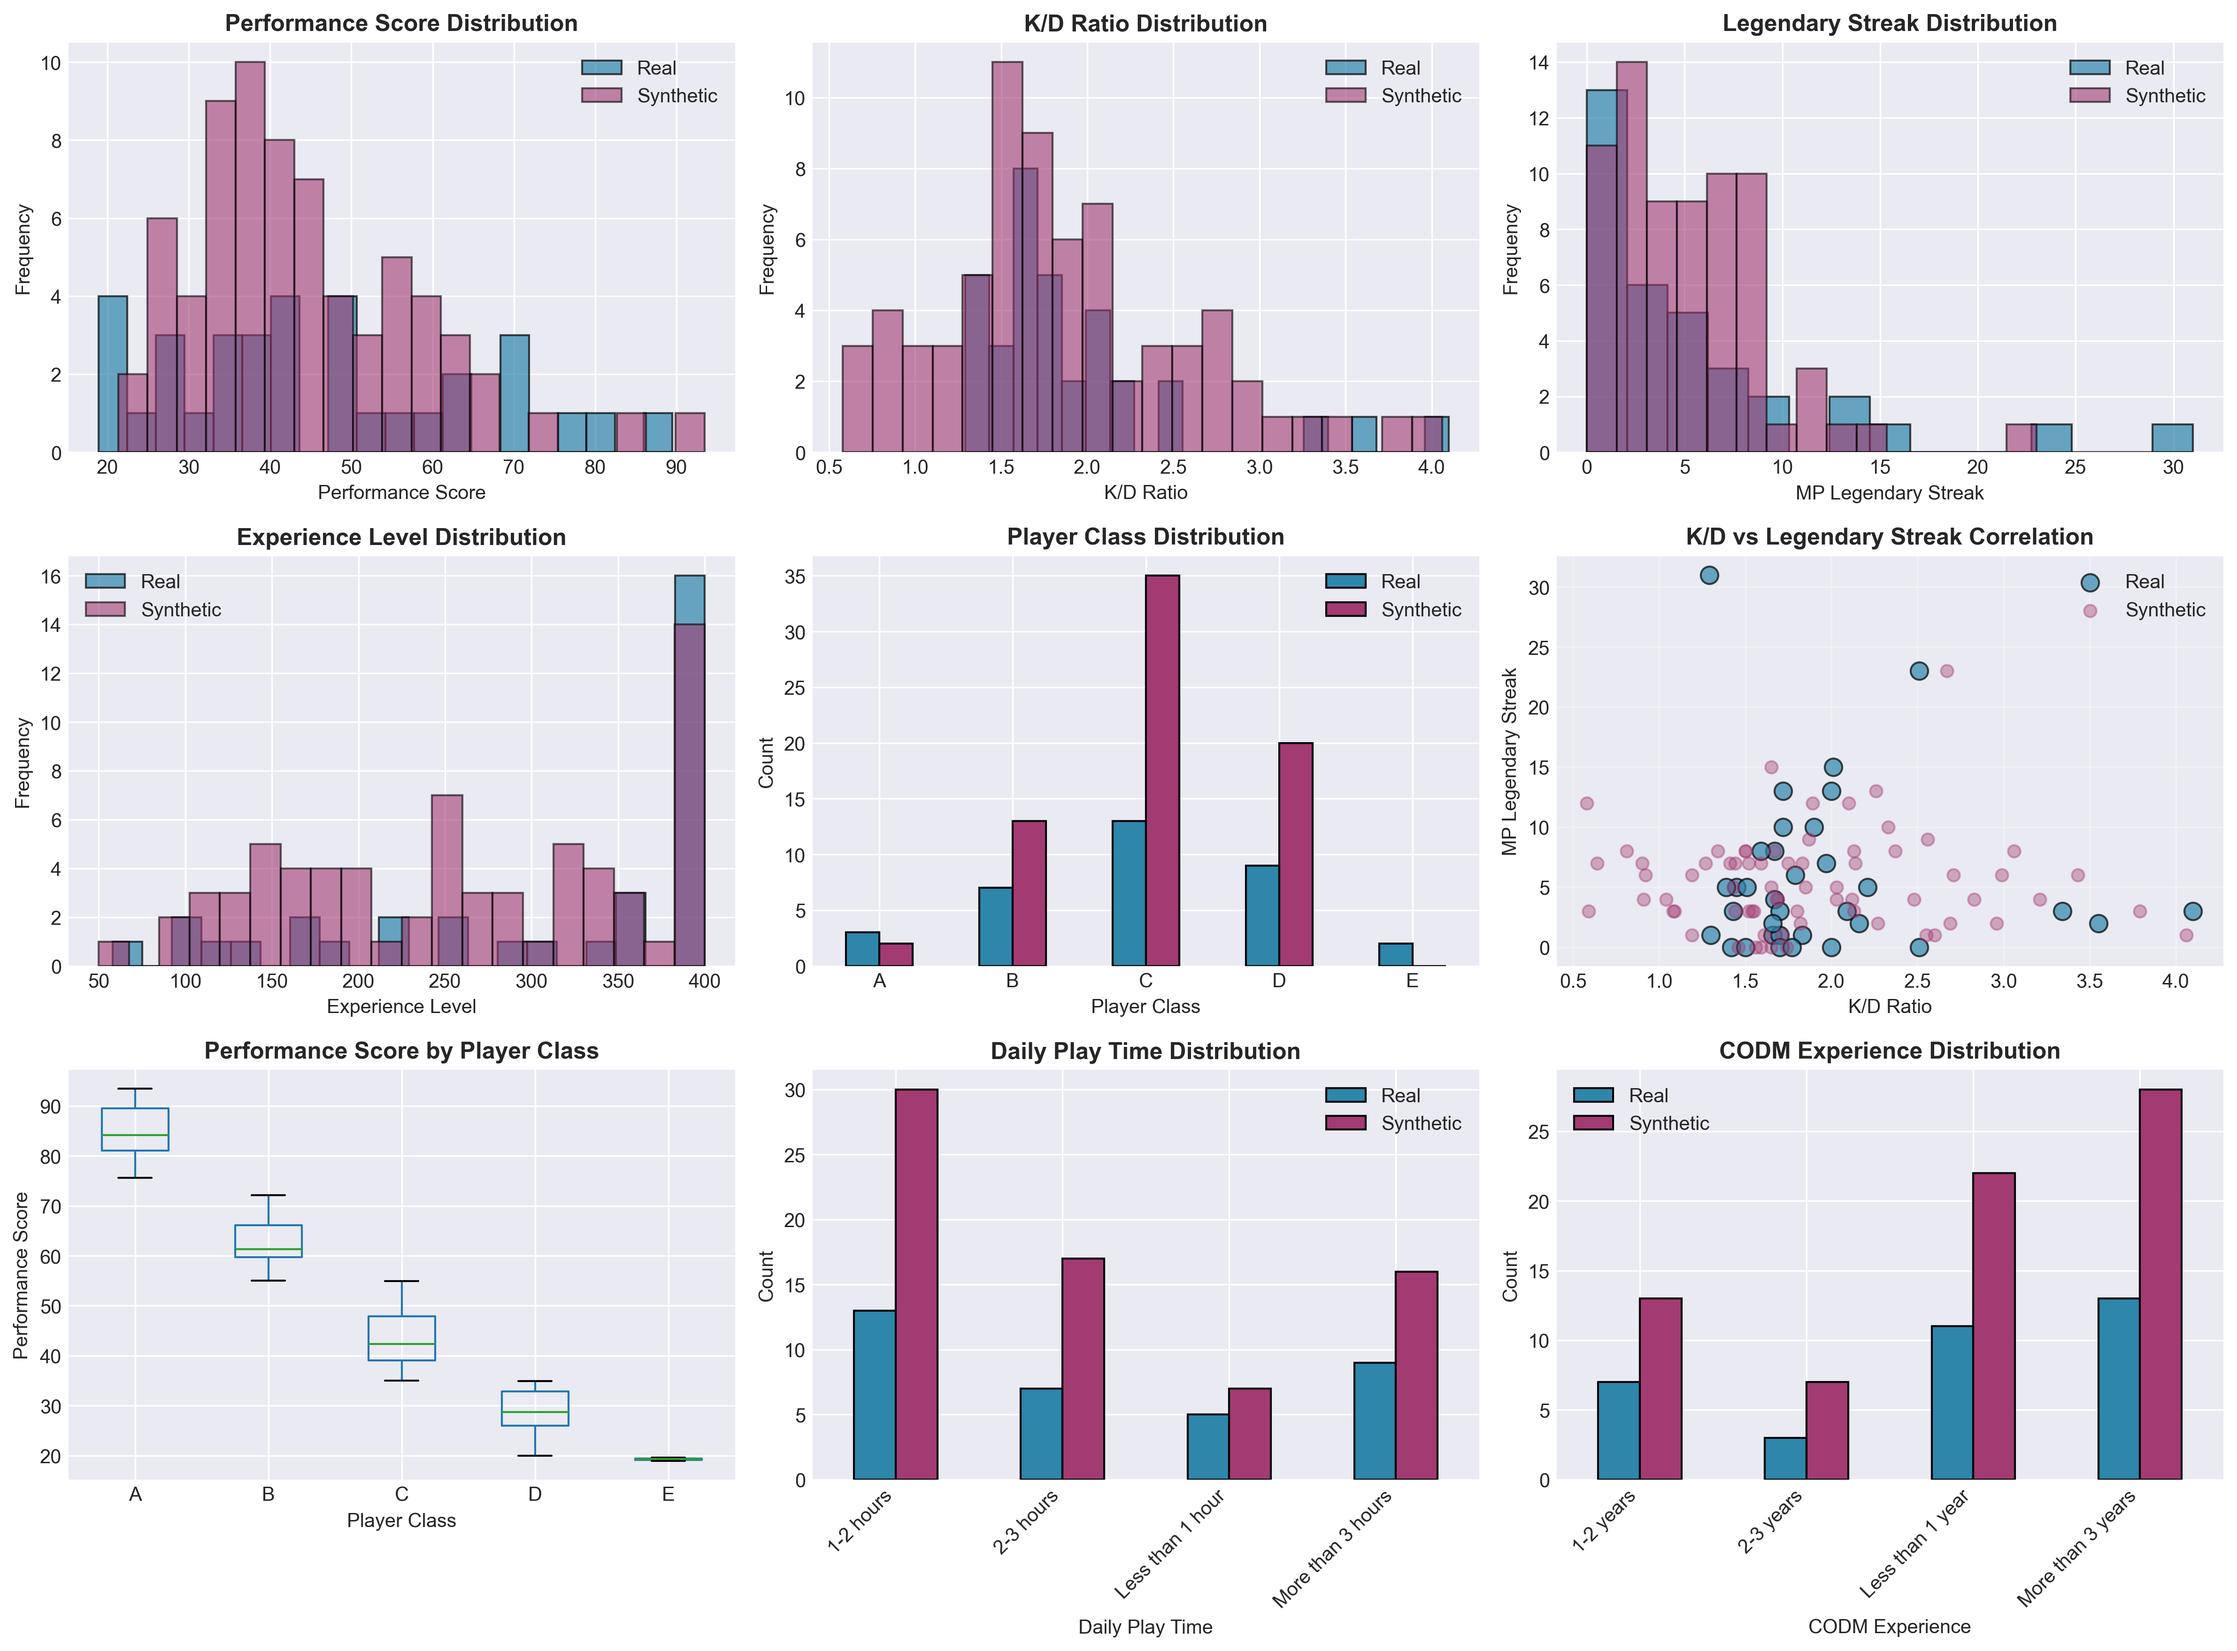
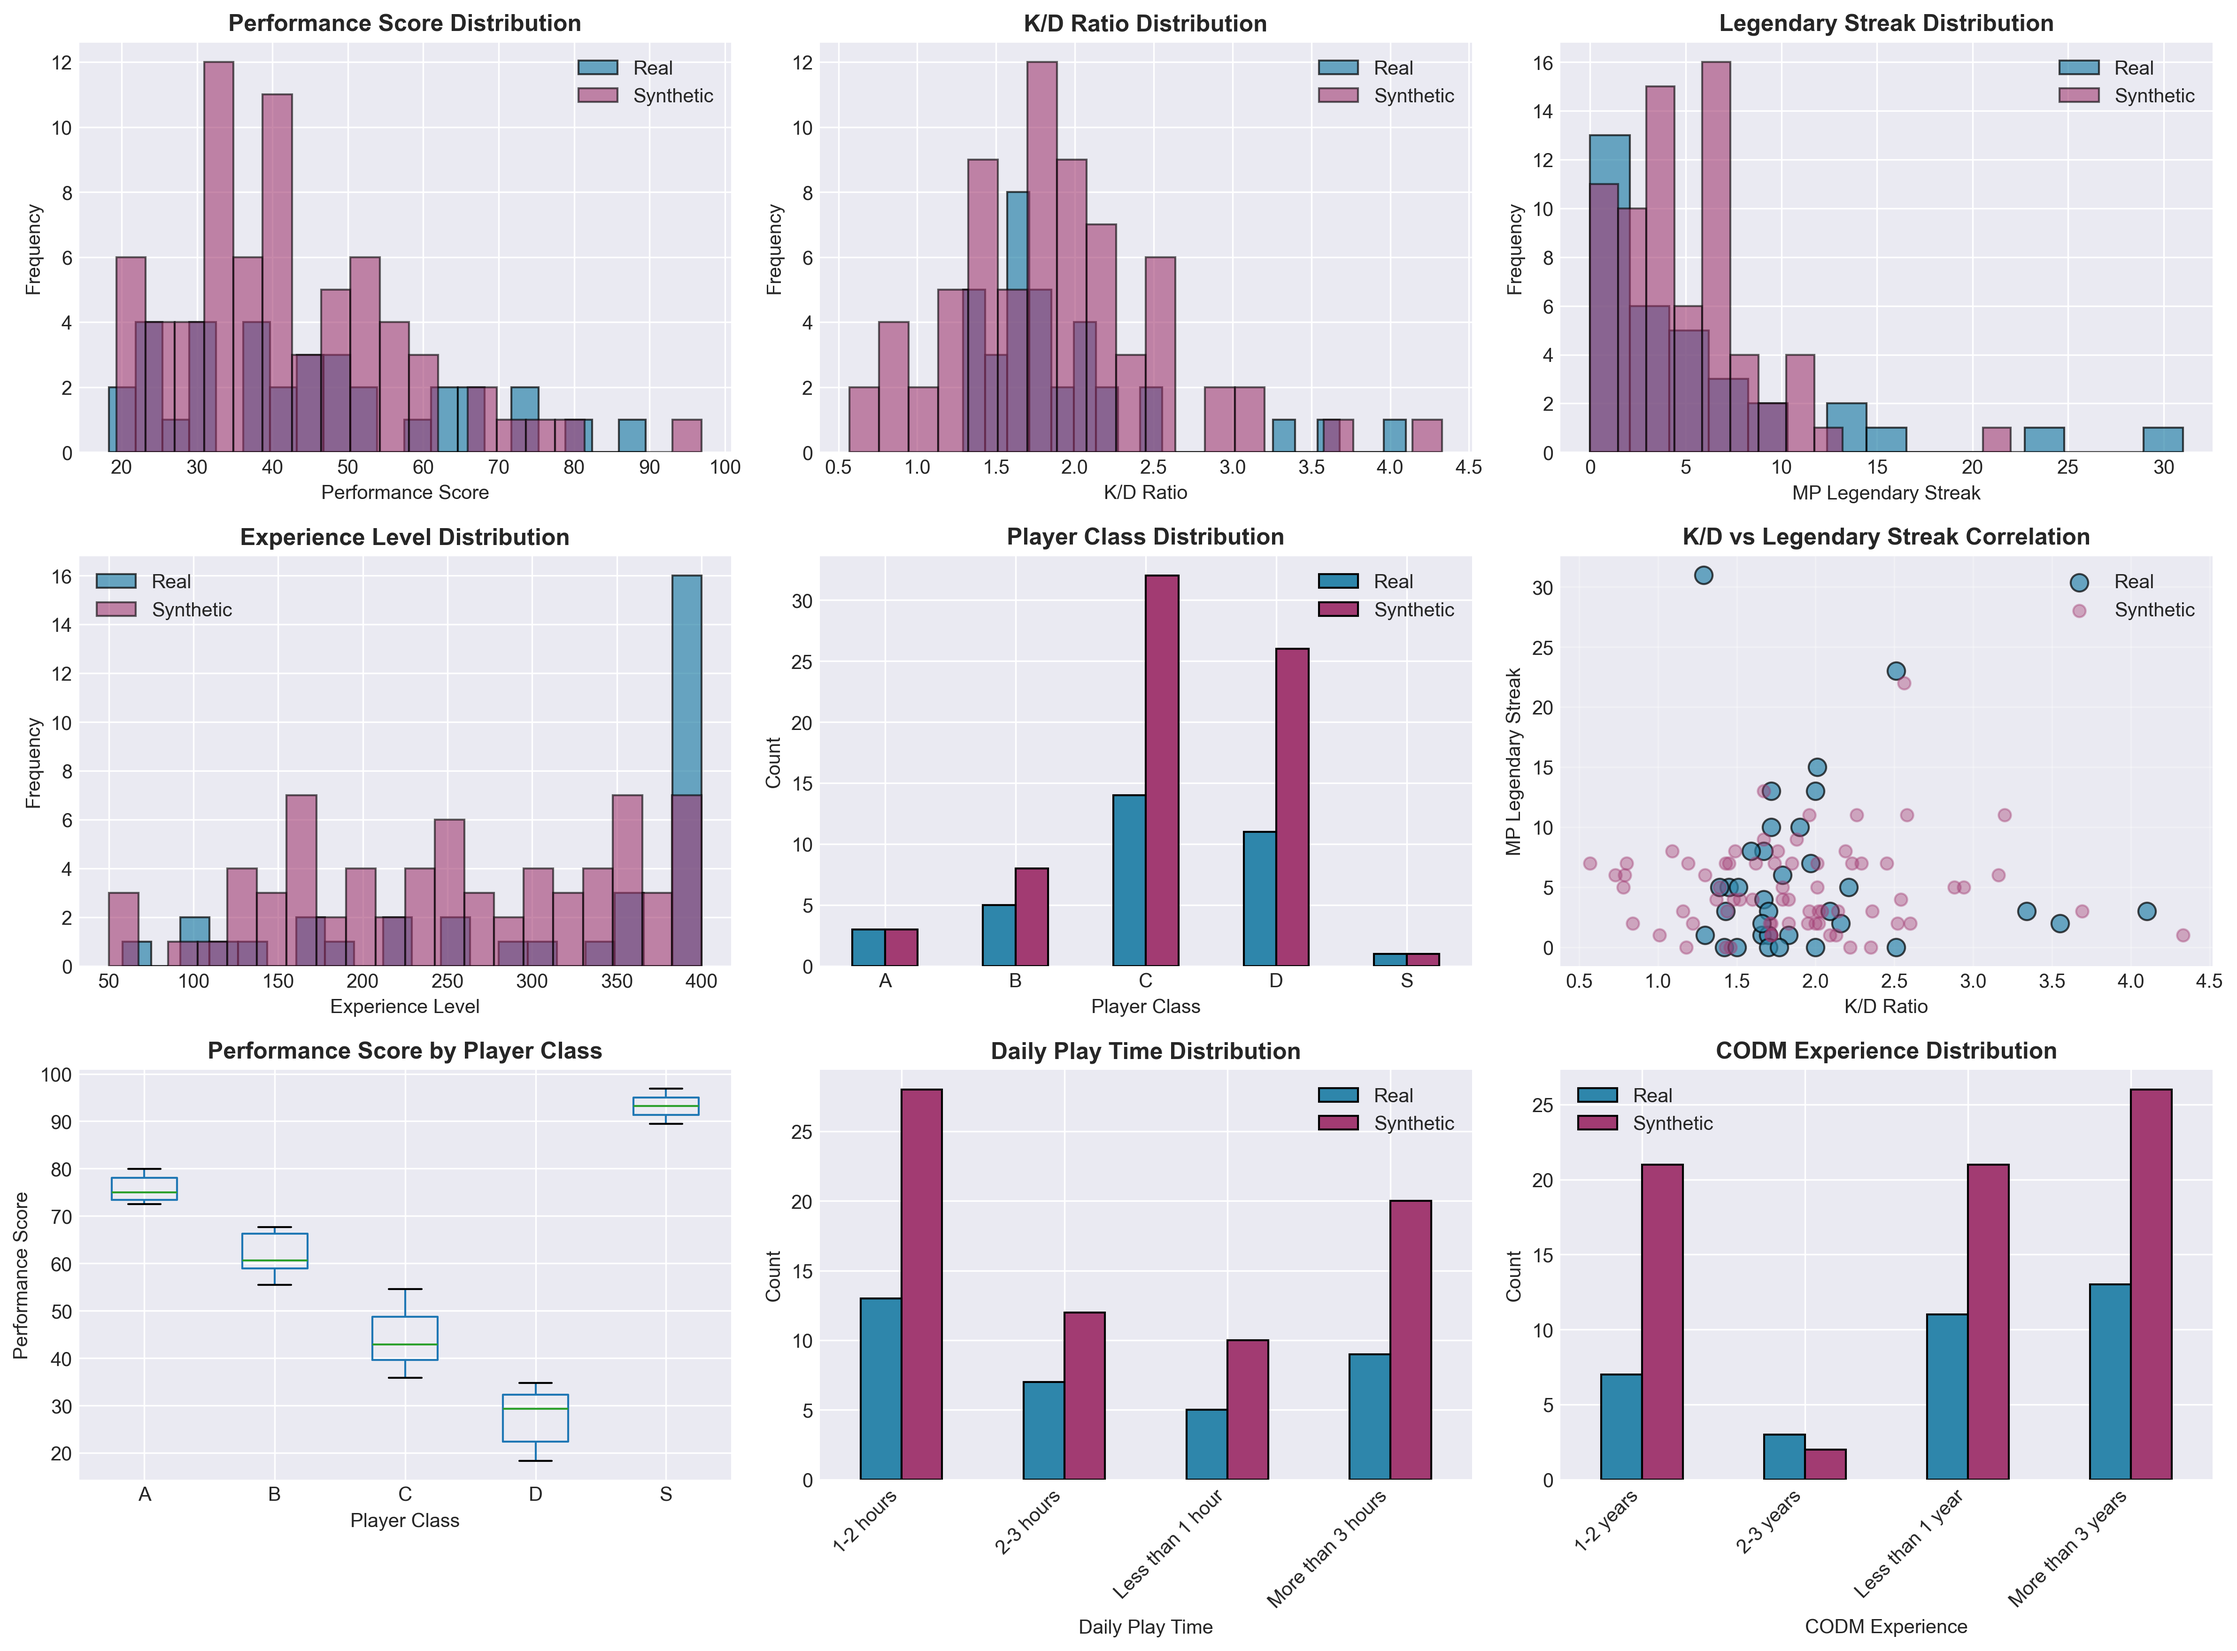
Adjusted class boundaries to match with database schema.

diff --git a/src/generate_data.py b/src/generate_data.py
@@ -264,19 +264,19 @@ combined_data['performance_score'] = combined_data.apply(calculate_performance_s
 # Step 7: Assign player classes
 def assign_class(score):
     """
-    ADJUSTED CLASS BOUNDARIES
-    Accounts for the 18-season cap and the dynamic K/D scaling.
+    ADJUSTED CLASS BOUNDARIES (Strictly 5 Graded Tiers)
+    'unranked' is reserved for accounts that haven't run the ML model.
     """
-    if score >= 75:
-        return 'A'  # Elite (Requires ~15+ Legendaries, max K/D bracket, and high activity)
+    if score >= 85:
+        return 'S'          # Supreme/Elite
+    elif score >= 70:
+        return 'A'          # Pro
     elif score >= 55:
-        return 'B'  # Advanced (Great veterans, or incredibly dedicated/high K/D newer players)
+        return 'B'          # Advanced
     elif score >= 35:
-        return 'C'  # Intermediate (The true average: Level 200-400, moderate K/D, a few Legendaries)
-    elif score >= 20:
-        return 'D'  # Beginner (Active but newer, or very casual older players)
+        return 'C'          # Intermediate
     else:
-        return 'E'  # Novice (Brand new, low activity, sub-1.0 K/D)
+        return 'D'          # Novice/Beginner
 
 combined_data['player_class'] = combined_data['performance_score'].apply(assign_class)
 

diff --git a/src/train_model.py b/src/train_model.py
@@ -132,11 +132,11 @@ print(f"   Test R2: {results[best_model_name]['test_r2']:.3f}")
 y_pred_test = best_model.predict(X_test)
 
 def assign_class(score):
-    if score >= 75: return 'A'
+    if score >= 85: return 'S'
+    elif score >= 70: return 'A'
     elif score >= 55: return 'B'
     elif score >= 35: return 'C'
-    elif score >= 20: return 'D'
-    else: return 'E'
+    else: return 'D'
 
 y_pred_class = [assign_class(score) for score in y_pred_test]
 class_accuracy = accuracy_score(y_class_test, y_pred_class)
